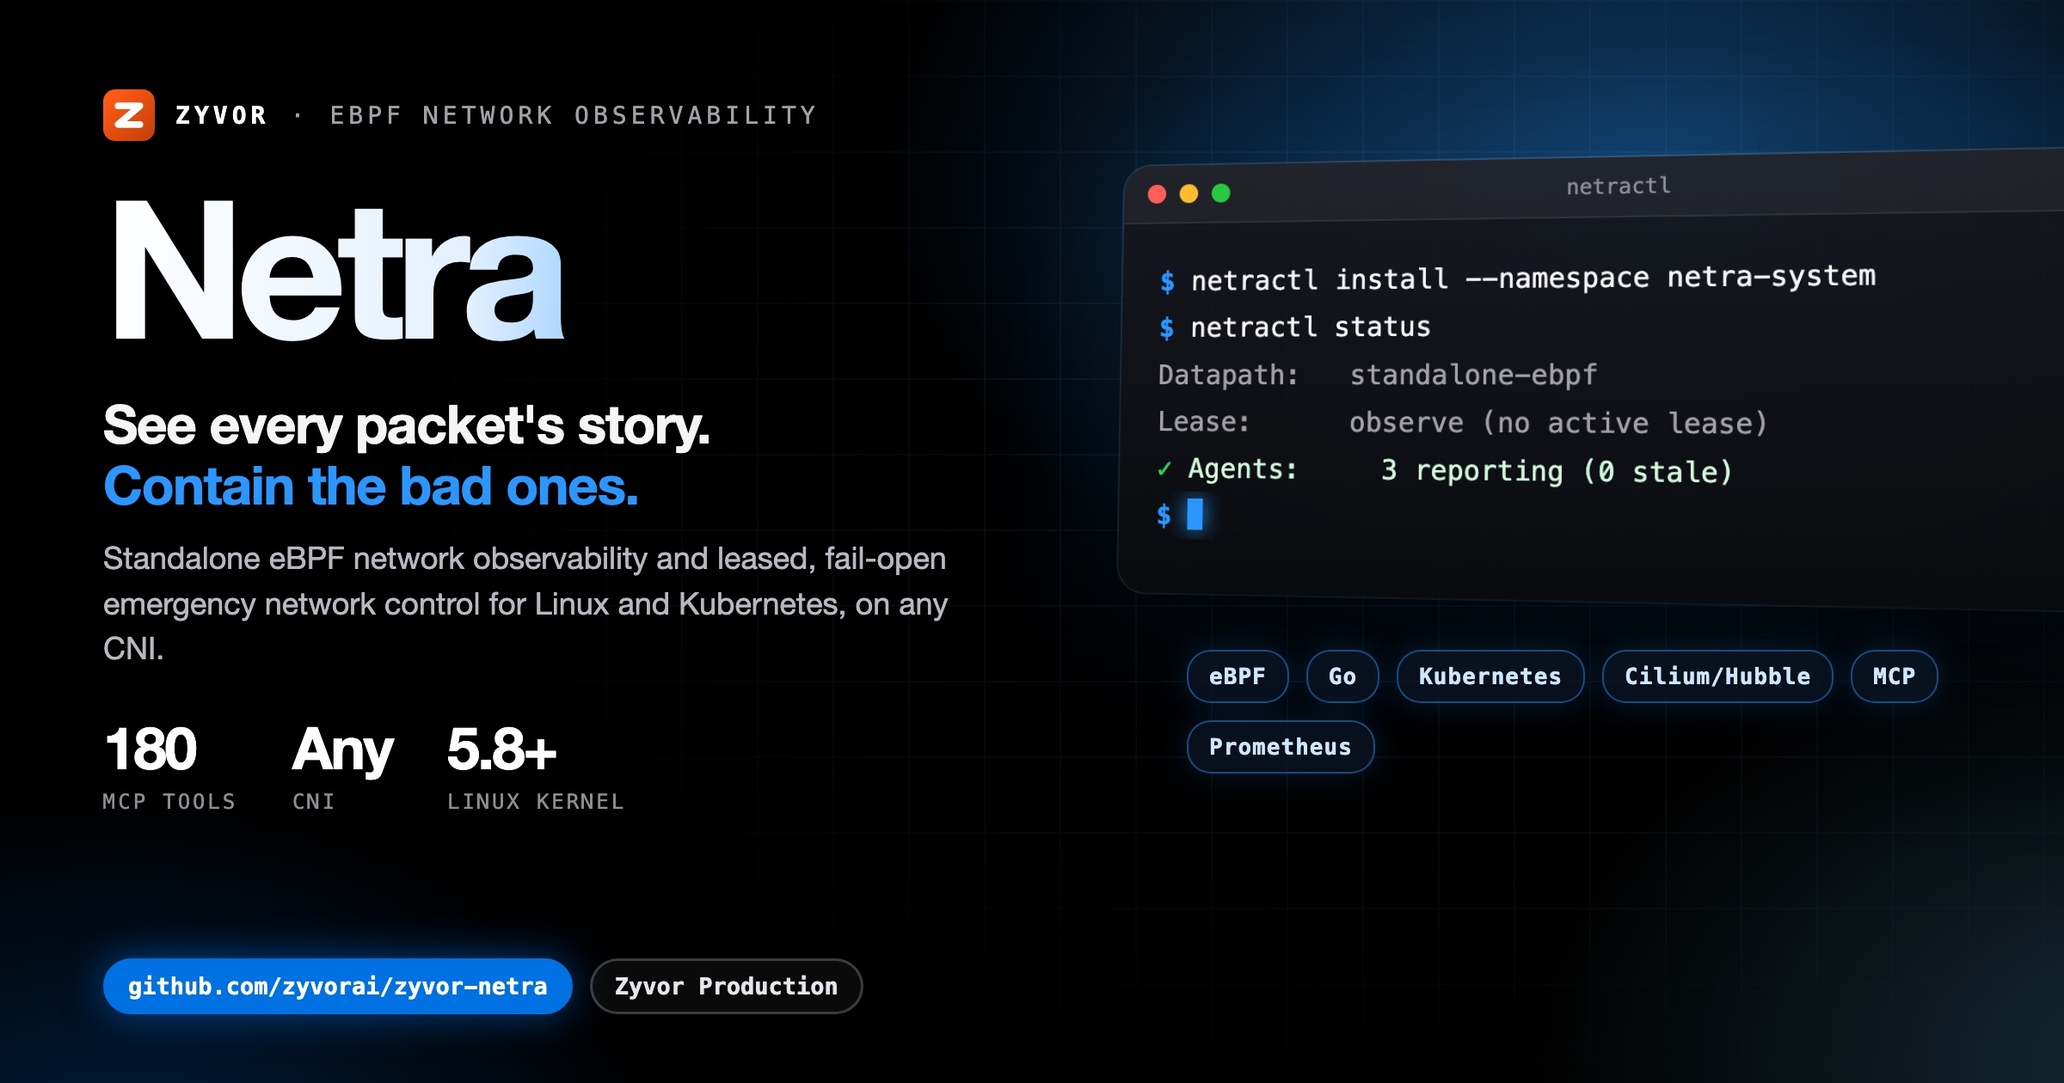
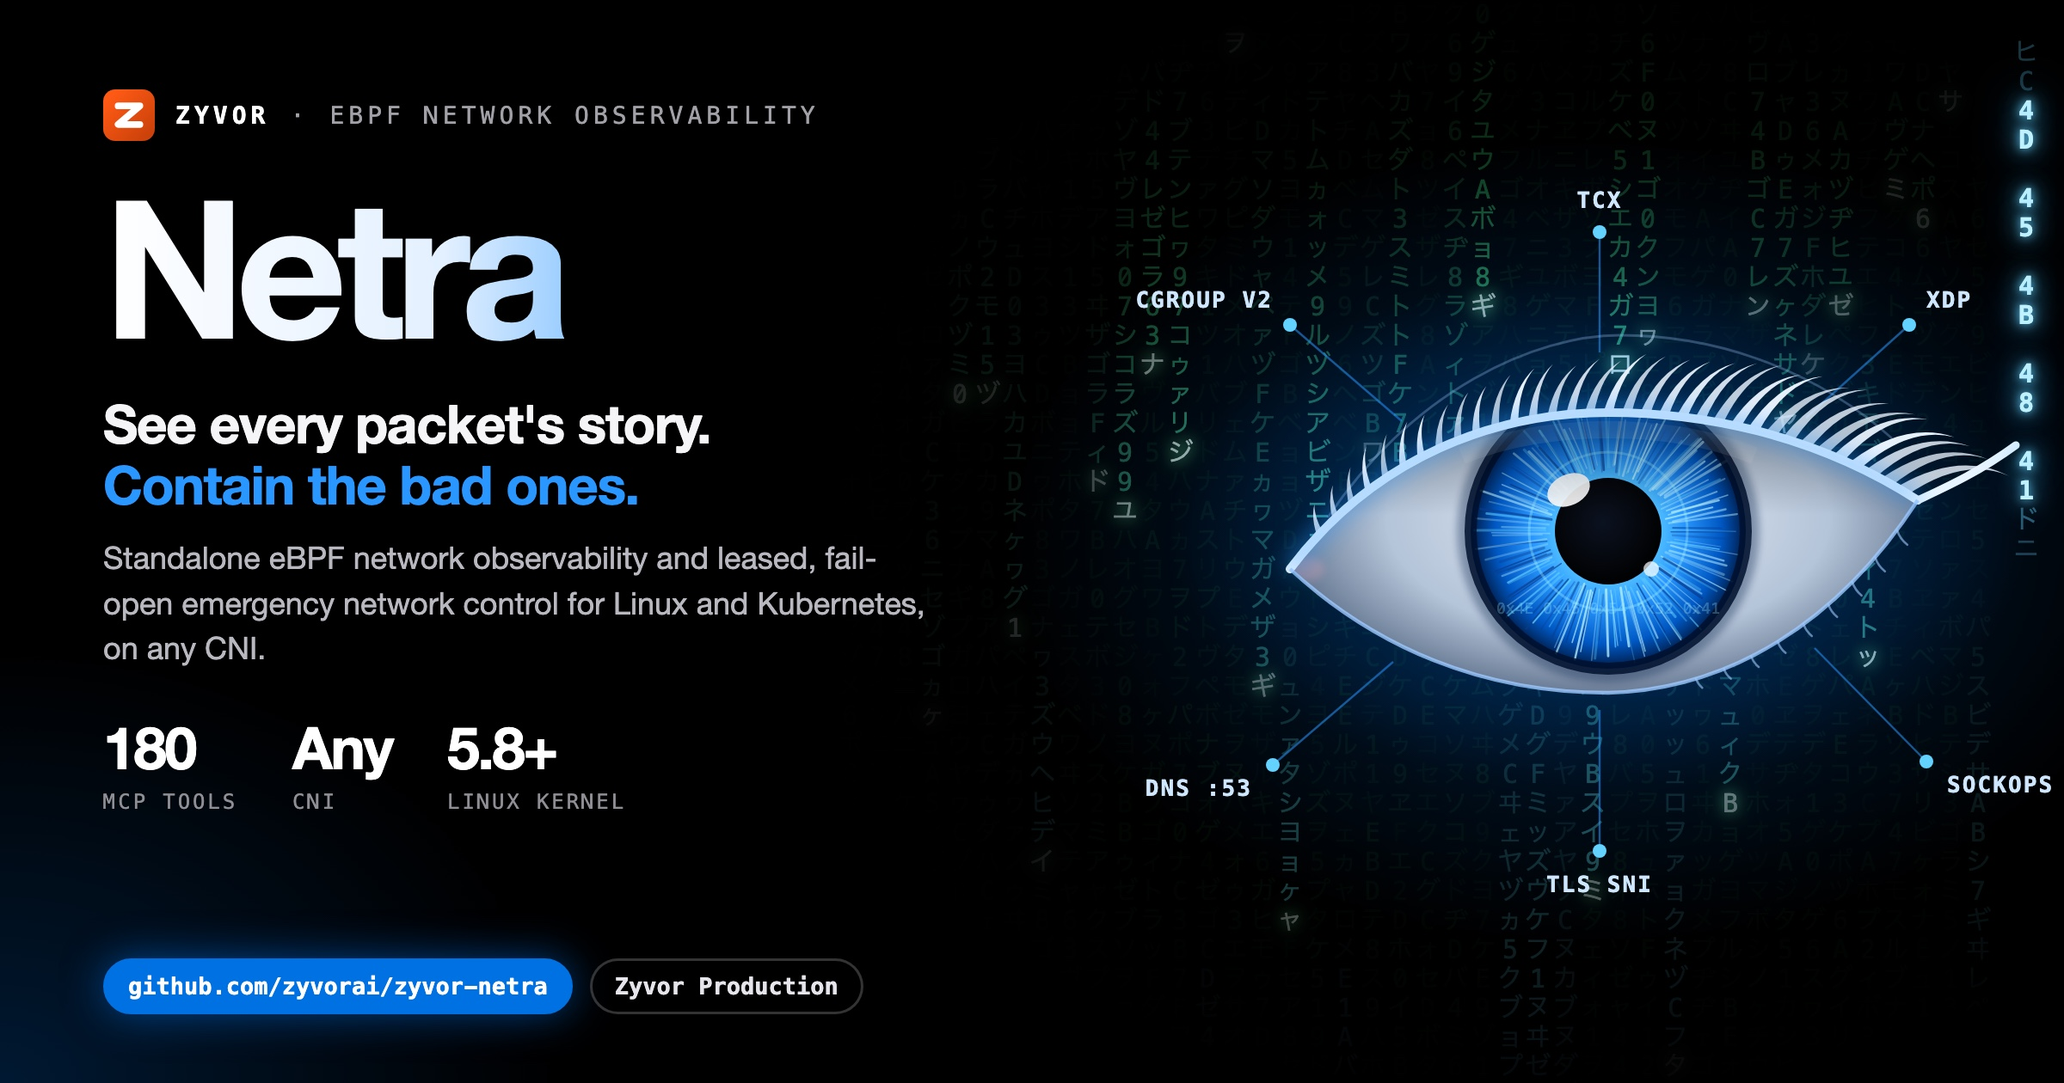
docs(social): redraw Netra hero eye with Matrix katakana rain
Hand-drawn eye with iris fibres, lashes and eBPF hook labels over a
seeded katakana/hex rain; a glowing column spells 4D 45 4B 48 41.
Point the docs site social image at the new card.

diff --git a/docs/social/netra-hero-dark.html b/docs/social/netra-hero-dark.html
@@ -5,70 +5,267 @@
 <title>Netra hero card</title>
 <!--
   1200x630 dark hero card: README hero and GitHub social preview.
+  The eye is hand-drawn SVG. The code rain is generated from a fixed seed so every render matches.
+  One rain column, right of the eye, reads 4D 45 4B 48 41: "MEKHA" in ASCII hex.
   Build: ./docs/social/build-hero-dark.sh  ->  netra-hero-dark.jpg (2400x1260)
 -->
 <style>
-  :root { --blue:#0071e3; --signal:#2997ff; --cyan:#64d2ff; --green:#30d158; --amber:#ff9f0a;
+  :root { --blue:#0071e3; --signal:#2997ff; --cyan:#64d2ff; --green:#30d158;
     --sans:'SF Pro Display','Helvetica Neue',Helvetica,Arial,sans-serif; --mono:'SF Mono',Menlo,Consolas,monospace; }
   * { box-sizing:border-box; }
   html,body { margin:0; padding:0; }
   body { width:1200px; height:630px; overflow:hidden; color:#f5f5f7; font-family:var(--sans); position:relative; background:#000; }
-  .aurora { position:absolute; inset:0;
-    background:radial-gradient(720px 460px at 80% 16%, rgba(41,151,255,.40), transparent 62%),
-               radial-gradient(600px 420px at 104% 98%, rgba(100,210,255,.20), transparent 60%),
-               radial-gradient(520px 380px at 6% 110%, rgba(0,113,227,.28), transparent 60%); }
-  .grid { position:absolute; inset:0; opacity:.09;
-    background-image:linear-gradient(rgba(120,180,255,.9) 1px,transparent 1px),linear-gradient(90deg,rgba(120,180,255,.9) 1px,transparent 1px);
-    background-size:44px 44px; -webkit-mask-image:radial-gradient(900px 520px at 72% 42%, #000 18%, transparent 75%); }
-  .left { position:absolute; left:60px; top:52px; width:560px; z-index:3; }
+  #rain { position:absolute; left:470px; top:0; width:730px; height:630px; overflow:hidden;
+    -webkit-mask-image:radial-gradient(460px 330px at 58% 50%, rgba(0,0,0,1) 30%, rgba(0,0,0,.55) 62%, transparent 100%); }
+  .col { position:absolute; top:0; width:16px; font-family:var(--mono); font-size:15px; line-height:17px; text-align:center; white-space:pre; }
+  .col span { display:block; }
+  .col .h { color:#e8fff0; text-shadow:0 0 8px #7dffb0, 0 0 16px var(--green); }
+  .mk { z-index:6; }
+  #mekha { left:1170px; top:22px; }
+  .mk span { color:#bff1ff; text-shadow:0 0 6px var(--cyan), 0 0 14px var(--cyan), 0 0 26px var(--signal); font-weight:700; }
+  .mk span.gap { color:transparent; text-shadow:none; }
+  .aurora { position:absolute; inset:0; pointer-events:none;
+    background:radial-gradient(520px 360px at 77% 50%, rgba(0,113,227,.30), transparent 65%),
+               radial-gradient(540px 420px at 0% 100%, rgba(0,113,227,.22), transparent 60%),
+               linear-gradient(90deg, #000 0%, #000 38%, rgba(0,0,0,.6) 46%, transparent 56%); }
+  .left { position:absolute; left:60px; top:52px; width:520px; z-index:5; }
   .brand { display:flex; align-items:center; gap:12px; font-family:var(--mono); font-size:14px; letter-spacing:.18em; text-transform:uppercase; color:#a1a1a6; }
   .brand b { color:#fff; }
-  .word { margin:20px 0 0; font-size:112px; line-height:.95; font-weight:800; letter-spacing:-.05em; white-space:nowrap;
-    background:linear-gradient(92deg,#fff 0%,#e3f0ff 38%,var(--signal) 74%,var(--cyan) 100%); -webkit-background-clip:text; background-clip:text; color:transparent; padding-bottom:6px; }
+  .word { margin:20px 0 0; font-size:112px; line-height:.95; font-weight:800; letter-spacing:-.05em; padding-bottom:6px;
+    background:linear-gradient(92deg,#fff 0%,#e3f0ff 38%,var(--signal) 74%,var(--cyan) 100%); -webkit-background-clip:text; background-clip:text; color:transparent; }
   .tag { margin:14px 0 0; font-size:31px; line-height:1.15; font-weight:700; letter-spacing:-.02em; }
   .tag em { font-style:normal; color:var(--signal); }
-  .lede { margin:12px 0 0; font-size:18px; line-height:1.45; color:#b8b8bf; width:520px; }
+  .lede { margin:12px 0 0; font-size:18px; line-height:1.45; color:#b8b8bf; width:480px; }
   .stats { margin-top:24px; display:flex; gap:32px; }
   .stat b { display:block; font-size:34px; font-weight:800; letter-spacing:-.03em; color:#fff; }
   .stat span { font-family:var(--mono); font-size:12px; letter-spacing:.12em; text-transform:uppercase; color:#8e8e93; }
-  .pill { position:absolute; left:60px; bottom:40px; display:flex; gap:10px; z-index:3; }
-  .pill span { font-family:var(--mono); font-size:13.5px; font-weight:700; padding:7px 13px; border-radius:18px; border:1.5px solid rgba(255,255,255,.2); color:#e5e5ea; background:rgba(255,255,255,.04); }
+  .pill { position:absolute; left:60px; bottom:40px; display:flex; gap:10px; z-index:5; }
+  .pill span { font-family:var(--mono); font-size:13.5px; font-weight:700; padding:7px 13px; border-radius:18px; border:1.5px solid rgba(255,255,255,.2); color:#e5e5ea; background:rgba(0,0,0,.6); }
   .pill span.b { background:var(--blue); border-color:var(--blue); color:#fff; box-shadow:0 0 24px rgba(0,113,227,.55); }
-
-  .right { position:absolute; left:652px; top:96px; width:560px; z-index:2; }
-  .win { position:relative; width:560px; border-radius:16px; overflow:hidden; z-index:2;
-    background:linear-gradient(180deg, rgba(22,24,30,.94), rgba(10,11,14,.96));
-    box-shadow:0 50px 100px rgba(0,0,0,.75), 0 0 0 1px rgba(255,255,255,.14), 0 0 90px rgba(41,151,255,.22);
-    transform:perspective(1600px) rotateY(-14deg) rotateX(4deg); transform-origin:left center; }
-  .bar { height:34px; display:flex; align-items:center; gap:8px; padding:0 14px; background:rgba(255,255,255,.05); border-bottom:1px solid rgba(255,255,255,.07); }
-  .bar i { width:11px; height:11px; border-radius:50%; background:#ff5f57; } .bar i:nth-child(2){background:#febc2e} .bar i:nth-child(3){background:#28c840}
-  .bar em { margin-left:auto; margin-right:auto; font-style:normal; font-family:var(--mono); font-size:12px; color:#8e8e93; transform:translateX(-24px); }
-  .term { min-height:214px; padding:20px 22px 24px; font-family:var(--mono); font-size:15.5px; line-height:1.75; }
-  .l { white-space:pre; overflow:hidden; text-overflow:ellipsis; color:#f5f5f7; }
-  .l .p { color:var(--signal); font-weight:700; }
-  .l.out { color:#a1a1a6; }
-  .l.cm { color:#6e6e73; }
-  .l.ok { color:#d1f7dc; } .l.ok span { color:var(--green); font-weight:700; }
-  .l.warn { color:#ffe1b0; } .l.warn span { color:var(--amber); font-weight:700; }
-  .cur { display:inline-block; width:9px; height:18px; background:var(--signal); vertical-align:-3px; box-shadow:0 0 12px var(--signal); }
-  .chips { margin:34px 0 0 38px; width:480px; display:flex; flex-wrap:wrap; gap:10px; position:relative; z-index:3; }
-  .chips span { font-family:var(--mono); font-size:13px; font-weight:700; letter-spacing:.04em; padding:7px 12px; border-radius:14px;
-    color:#cfe6ff; background:rgba(10,20,35,.82); border:1px solid rgba(41,151,255,.45); box-shadow:0 0 18px rgba(41,151,255,.18); }
+  #eye { position:absolute; left:600px; top:95px; width:640px; height:440px; z-index:4; }
+  .lbl { font-family:'SF Mono',Menlo,monospace; font-size:13px; font-weight:700; letter-spacing:.08em; fill:#cfe6ff; }
 </style>
 </head>
 <body>
+<div id="rain"></div>
 <div class="aurora"></div>
-<div class="grid"></div>
+<div id="mekha" class="col mk"></div>
+
+<svg id="eye" viewBox="0 0 640 440" aria-hidden="true">
+  <defs>
+    <radialGradient id="glow" cx="50%" cy="50%" r="50%">
+      <stop offset="0" stop-color="#2997ff" stop-opacity=".55"/>
+      <stop offset=".55" stop-color="#0071e3" stop-opacity=".18"/>
+      <stop offset="1" stop-color="#0071e3" stop-opacity="0"/>
+    </radialGradient>
+    <radialGradient id="sclera" cx="50%" cy="46%" r="60%">
+      <stop offset="0" stop-color="#e6eef8"/>
+      <stop offset=".55" stop-color="#b4c4d8"/>
+      <stop offset=".85" stop-color="#5d6f8a"/>
+      <stop offset="1" stop-color="#2a3650"/>
+    </radialGradient>
+    <radialGradient id="iris" cx="50%" cy="50%" r="50%">
+      <stop offset="0" stop-color="#9ef0ff"/>
+      <stop offset=".28" stop-color="#64d2ff"/>
+      <stop offset=".55" stop-color="#2997ff"/>
+      <stop offset=".82" stop-color="#0058c4"/>
+      <stop offset="1" stop-color="#001a44"/>
+    </radialGradient>
+    <radialGradient id="pupil" cx="45%" cy="42%" r="60%">
+      <stop offset="0" stop-color="#0b1220"/>
+      <stop offset="1" stop-color="#000"/>
+    </radialGradient>
+    <linearGradient id="lidShade" x1="0" y1="0" x2="0" y2="1">
+      <stop offset="0" stop-color="#000" stop-opacity=".55"/>
+      <stop offset=".45" stop-color="#000" stop-opacity="0"/>
+    </linearGradient>
+    <clipPath id="eyeClip">
+      <path d="M150,236 C200,170 270,145 335,145 C400,145 462,162 515,196 C468,268 405,306 335,308 C262,308 200,282 150,236 Z"/>
+    </clipPath>
+    <filter id="soft" x="-20%" y="-20%" width="140%" height="140%"><feGaussianBlur stdDeviation="2.2"/></filter>
+    <filter id="bloom" x="-50%" y="-50%" width="200%" height="200%"><feGaussianBlur stdDeviation="6"/></filter>
+  </defs>
+
+  <!-- hook connectors and labels -->
+  <g stroke="#2997ff" stroke-opacity=".55" stroke-width="1.2" fill="none">
+    <line x1="330" y1="40" x2="330" y2="110"/>
+    <line x1="330" y1="318" x2="330" y2="400"/>
+    <line x1="150" y1="94" x2="215" y2="150"/>
+    <line x1="510" y1="94" x2="450" y2="148"/>
+    <line x1="140" y1="350" x2="210" y2="290"/>
+    <line x1="520" y1="348" x2="455" y2="282"/>
+  </g>
+  <g fill="#64d2ff">
+    <circle cx="330" cy="40" r="4"/><circle cx="330" cy="400" r="4"/>
+    <circle cx="150" cy="94" r="4"/><circle cx="510" cy="94" r="4"/>
+    <circle cx="140" cy="350" r="4"/><circle cx="520" cy="348" r="4"/>
+  </g>
+  <text class="lbl" x="330" y="26" text-anchor="middle">TCX</text>
+  <text class="lbl" x="330" y="424" text-anchor="middle">TLS SNI</text>
+  <text class="lbl" x="140" y="84" text-anchor="end">CGROUP V2</text>
+  <text class="lbl" x="520" y="84">XDP</text>
+  <text class="lbl" x="128" y="368" text-anchor="end">DNS :53</text>
+  <text class="lbl" x="532" y="366">SOCKOPS</text>
+
+  <!-- glow -->
+  <ellipse cx="330" cy="214" rx="250" ry="150" fill="url(#glow)"/>
+
+  <!-- eyeball -->
+  <g clip-path="url(#eyeClip)">
+    <rect x="140" y="110" width="390" height="210" fill="url(#sclera)"/>
+    <ellipse cx="160" cy="236" rx="10" ry="7" fill="#d9a3b0" opacity=".35" filter="url(#soft)"/>
+    <circle cx="335" cy="214" r="88" fill="#001a44" opacity=".35" filter="url(#soft)"/>
+    <circle cx="335" cy="214" r="80" fill="url(#iris)"/>
+    <g id="fibres" stroke-linecap="round"></g>
+    <circle cx="335" cy="214" r="80" fill="none" stroke="#00102e" stroke-width="7" opacity=".85"/>
+    <circle cx="335" cy="214" r="46" fill="none" stroke="#9ef0ff" stroke-width="1.5" opacity=".35"/>
+    <circle cx="335" cy="214" r="31" fill="url(#pupil)"/>
+    <text x="335" y="262" text-anchor="middle" font-family="SF Mono,Menlo,monospace" font-size="9" fill="#9ef0ff" opacity=".28">0x4E 0x45 0x54 0x52 0x41</text>
+    <ellipse cx="312" cy="190" rx="13" ry="9" fill="#fff" opacity=".92" transform="rotate(-25 312 190)"/>
+    <circle cx="360" cy="236" r="4.5" fill="#fff" opacity=".7"/>
+    <path d="M250,170 C300,150 370,150 420,170" stroke="#fff" stroke-opacity=".12" stroke-width="10" fill="none"/>
+    <rect x="140" y="110" width="390" height="210" fill="url(#lidShade)"/>
+  </g>
+
+  <!-- lids and liner -->
+  <path d="M150,236 C200,170 270,145 335,145 C400,145 462,162 515,196" fill="none" stroke="#e8f4ff" stroke-width="5" stroke-linecap="round"/>
+  <path d="M515,196 C532,188 550,180 572,164" fill="none" stroke="#e8f4ff" stroke-width="4.5" stroke-linecap="round"/>
+  <path d="M150,236 C200,282 262,308 335,308 C405,306 468,268 515,196" fill="none" stroke="#9ec9ff" stroke-width="2.2" stroke-opacity=".8"/>
+  <path d="M172,206 C222,132 292,100 342,100 C404,100 460,124 500,160" fill="none" stroke="#9ec9ff" stroke-width="1.4" stroke-opacity=".3"/>
+  <g id="lashes" fill="none" stroke="#e8f4ff" stroke-linecap="round"></g>
+  <g id="lowlashes" fill="none" stroke="#9ec9ff" stroke-linecap="round" stroke-opacity=".6"></g>
+  <path d="M150,236 C200,170 270,145 335,145 C400,145 462,162 515,196" fill="none" stroke="#2997ff" stroke-width="10" opacity=".45" filter="url(#bloom)"/>
+</svg>
+
 <div class="left">
   <div class="brand"><svg viewBox="0 0 64 64" width="30" height="30" aria-hidden="true"><defs><linearGradient id="zb" x1="8" y1="8" x2="56" y2="56" gradientUnits="userSpaceOnUse"><stop offset="0" stop-color="#ff5a15"/><stop offset="1" stop-color="#cc420a"/></linearGradient></defs><rect width="64" height="64" rx="15" fill="url(#zb)"/><path d="M18.5,20.5 45.5,20.5 18.5,43.5 45.5,43.5" fill="none" stroke="#fff" stroke-width="8.3" stroke-linecap="round" stroke-linejoin="round"/></svg><b>Zyvor</b><span>&middot;</span><span>eBPF network observability</span></div>
   <div class="word">Netra</div>
-  <div class="tag">See every packet&#x27;s story.<br><em>Contain the bad ones.</em></div>
+  <div class="tag">See every packet's story.<br><em>Contain the bad ones.</em></div>
   <div class="lede">Standalone eBPF network observability and leased, fail-open emergency network control for Linux and Kubernetes, on any CNI.</div>
   <div class="stats"><div class="stat"><b>180</b><span>MCP tools</span></div><div class="stat"><b>Any</b><span>CNI</span></div><div class="stat"><b>5.8+</b><span>Linux kernel</span></div></div>
 </div>
 <div class="pill"><span class="b">github.com/zyvorai/zyvor-netra</span><span>Zyvor Production</span></div>
-<div class="right"><div class="win"><div class="bar"><i></i><i></i><i></i><em>netractl</em></div>
-<div class="term"><div class="l"><span class="p">$</span> netractl install --namespace netra-system</div><div class="l"><span class="p">$</span> netractl status</div><div class="l out">Datapath:   standalone-ebpf</div><div class="l out">Lease:      observe (no active lease)</div><div class="l ok"><span>&#10003;</span> Agents:     3 reporting (0 stale)</div><div class="l"><span class="p">$</span> <i class="cur"></i></div></div></div>
-<div class="chips"><span>eBPF</span><span>Go</span><span>Kubernetes</span><span>Cilium/Hubble</span><span>MCP</span><span>Prometheus</span></div></div>
+
+<script>
+(function () {
+  var seed = 20261004;
+  function rnd() { seed = (seed * 1103515245 + 12345) & 0x7fffffff; return seed / 0x7fffffff; }
+  var NS = 'http://www.w3.org/2000/svg';
+
+  // Iris fibres
+  var fib = document.getElementById('fibres');
+  for (var i = 0; i < 140; i++) {
+    var a = (i / 140) * Math.PI * 2 + rnd() * 0.04;
+    var r0 = 33 + rnd() * 6, r1 = 62 + rnd() * 17;
+    var l = document.createElementNS(NS, 'line');
+    l.setAttribute('x1', 335 + Math.cos(a) * r0); l.setAttribute('y1', 214 + Math.sin(a) * r0);
+    l.setAttribute('x2', 335 + Math.cos(a + (rnd() - .5) * .08) * r1); l.setAttribute('y2', 214 + Math.sin(a + (rnd() - .5) * .08) * r1);
+    var c = rnd() < .5 ? '#bff4ff' : (rnd() < .5 ? '#0a3d8f' : '#64d2ff');
+    l.setAttribute('stroke', c); l.setAttribute('stroke-width', (0.5 + rnd() * 1.1).toFixed(2));
+    l.setAttribute('opacity', (0.25 + rnd() * 0.5).toFixed(2));
+    fib.appendChild(l);
+  }
+
+  // Lashes: tapered, curling outward, longer toward the outer (right) corner
+  function bez(t, p0, p1, p2, p3) { var u = 1 - t; return u*u*u*p0 + 3*u*u*t*p1 + 3*u*t*t*p2 + t*t*t*p3; }
+  var lashes = document.getElementById('lashes');
+  var segs = [[150,236, 200,170, 270,145, 335,145], [335,145, 400,145, 462,162, 515,196]];
+  var N = 36;
+  for (var k = 2; k < N; k++) {
+    var g = k / N, si = g < 0.5 ? 0 : 1, t = si === 0 ? g * 2 : (g - 0.5) * 2;
+    var s0 = segs[si];
+    var x = bez(t, s0[0], s0[2], s0[4], s0[6]), y = bez(t, s0[1], s0[3], s0[5], s0[7]);
+    var len = 16 + Math.pow(g, 1.25) * 50 + rnd() * 5;
+    var ang = (-118 + g * 86 + (rnd() - .5) * 6) * Math.PI / 180;
+    var curl = (0.45 + g * 0.45);
+    var tx = x + Math.cos(ang) * len, ty = y + Math.sin(ang) * len;
+    var ang2 = ang + curl;
+    tx = x + Math.cos(ang) * len * 0.55 + Math.cos(ang2) * len * 0.5;
+    ty = y + Math.sin(ang) * len * 0.55 + Math.sin(ang2) * len * 0.5;
+    var cx = x + Math.cos(ang) * len * 0.62, cy = y + Math.sin(ang) * len * 0.62;
+    var w = 1.8 + g * 1.8;
+    var nx = -Math.sin(ang) * w, ny = Math.cos(ang) * w;
+    var p = document.createElementNS(NS, 'path');
+    p.setAttribute('d', 'M' + (x - nx).toFixed(1) + ',' + (y - ny).toFixed(1) +
+      ' Q' + (cx - nx * .5).toFixed(1) + ',' + (cy - ny * .5).toFixed(1) + ' ' + tx.toFixed(1) + ',' + ty.toFixed(1) +
+      ' Q' + (cx + nx * .5).toFixed(1) + ',' + (cy + ny * .5).toFixed(1) + ' ' + (x + nx).toFixed(1) + ',' + (y + ny).toFixed(1) + ' Z');
+    p.setAttribute('fill', '#eaf4ff'); p.setAttribute('stroke', 'none');
+    p.setAttribute('opacity', (0.75 + rnd() * 0.25).toFixed(2));
+    lashes.appendChild(p);
+  }
+  var low = document.getElementById('lowlashes');
+  var ls = [515,196, 468,268, 405,306, 335,308];
+  for (var k = 1; k <= 9; k++) {
+    var t = k / 12, x = bez(t, ls[0], ls[2], ls[4], ls[6]), y = bez(t, ls[1], ls[3], ls[5], ls[7]);
+    var L = 9 - t * 5;
+    var p = document.createElementNS(NS, 'path');
+    p.setAttribute('d', 'M' + x.toFixed(1) + ',' + y.toFixed(1) + ' q' + (L * .2).toFixed(1) + ',' + (L * .6).toFixed(1) + ' ' + (L * .7).toFixed(1) + ',' + L.toFixed(1));
+    p.setAttribute('stroke-width', '1.3');
+    low.appendChild(p);
+  }
+
+  // Matrix rain: katakana, hex and digits
+  var glyphs = [];
+  for (var cp = 0x30A1; cp <= 0x30F6; cp++) glyphs.push(String.fromCharCode(cp));
+  '0123456789ABCDEF'.split('').forEach(function (ch) { glyphs.push(ch); glyphs.push(ch); });
+  var rain = document.getElementById('rain');
+  var W = 730, colW = 16, cols = Math.floor(W / colW), rows = 38;
+  var mkCol = -1;
+  for (var c = 0; c < cols; c++) {
+    if (470 + c * colW > 1150 && 470 + c * colW < 1192) continue;
+    var col = document.createElement('div');
+    col.className = 'col';
+    col.style.left = (c * colW) + 'px';
+    if (c === mkCol) {
+      col.className = 'col mk';
+      var code = ['4','D',' ','4','5',' ','4','B',' ','4','8',' ','4','1'];
+      var start = 7;
+      for (var r = 0; r < rows; r++) {
+        var s = document.createElement('span');
+        var idx = r - start;
+        if (idx >= 0 && idx < code.length) {
+          s.textContent = code[idx] === ' ' ? '.' : code[idx];
+          if (code[idx] === ' ') s.className = 'gap';
+        } else {
+          s.textContent = glyphs[Math.floor(rnd() * glyphs.length)];
+          s.style.color = 'rgba(100,210,255,' + (r < start ? 0.10 + r * 0.03 : Math.max(0.05, 0.35 - (idx - code.length) * 0.03)).toFixed(2) + ')';
+          s.style.textShadow = 'none'; s.style.fontWeight = '400';
+        }
+        col.appendChild(s);
+      }
+      rain.appendChild(col);
+      continue;
+    }
+    var head = Math.floor(rnd() * (rows + 10)) - 4;
+    var tail = 8 + Math.floor(rnd() * 22);
+    var depth = 0.35 + rnd() * 0.65;
+    for (var r = 0; r < rows; r++) {
+      var s = document.createElement('span');
+      s.textContent = glyphs[Math.floor(rnd() * glyphs.length)];
+      var d = head - r;
+      if (d === 0) { s.className = 'h'; s.style.opacity = depth.toFixed(2); }
+      else if (d > 0 && d < tail) {
+        var f = 1 - d / tail;
+        var mix = r / rows;
+        var g = Math.round(209 + (210 - 209) * mix), rr = Math.round(48 + (100 - 48) * mix), b = Math.round(88 + (255 - 88) * mix);
+        s.style.color = 'rgba(' + rr + ',' + g + ',' + b + ',' + (f * 0.85 * depth).toFixed(2) + ')';
+      } else {
+        s.style.color = 'rgba(48,209,88,' + (0.04 + rnd() * 0.05).toFixed(2) + ')';
+      }
+      col.appendChild(s);
+    }
+    rain.appendChild(col);
+  }
+  var mk = document.getElementById('mekha');
+  var code = ['4','D','','4','5','','4','B','','4','8','','4','1'];
+  for (var r = 0; r < 18; r++) {
+    var sp = document.createElement('span');
+    var idx = r - 2;
+    if (idx >= 0 && idx < code.length) { sp.textContent = code[idx] || '.'; if (!code[idx]) sp.className = 'gap'; }
+    else { sp.textContent = glyphs[Math.floor(rnd() * glyphs.length)]; sp.style.color = 'rgba(100,210,255,' + (r < 2 ? .25 : Math.max(.06, .4 - (idx - code.length) * .12)).toFixed(2) + ')'; sp.style.textShadow = 'none'; sp.style.fontWeight = '400'; }
+    mk.appendChild(sp);
+  }
+})();
+</script>
 </body>
 </html>

diff --git a/website/docusaurus.config.ts b/website/docusaurus.config.ts
@@ -55,7 +55,7 @@ const config: Config = {
   ],
 
   themeConfig: {
-    image: 'netra-share-card.png',
+    image: 'netra-hero-dark.jpg',
     colorMode: {
       defaultMode: 'dark',
       respectPrefersColorScheme: false,
